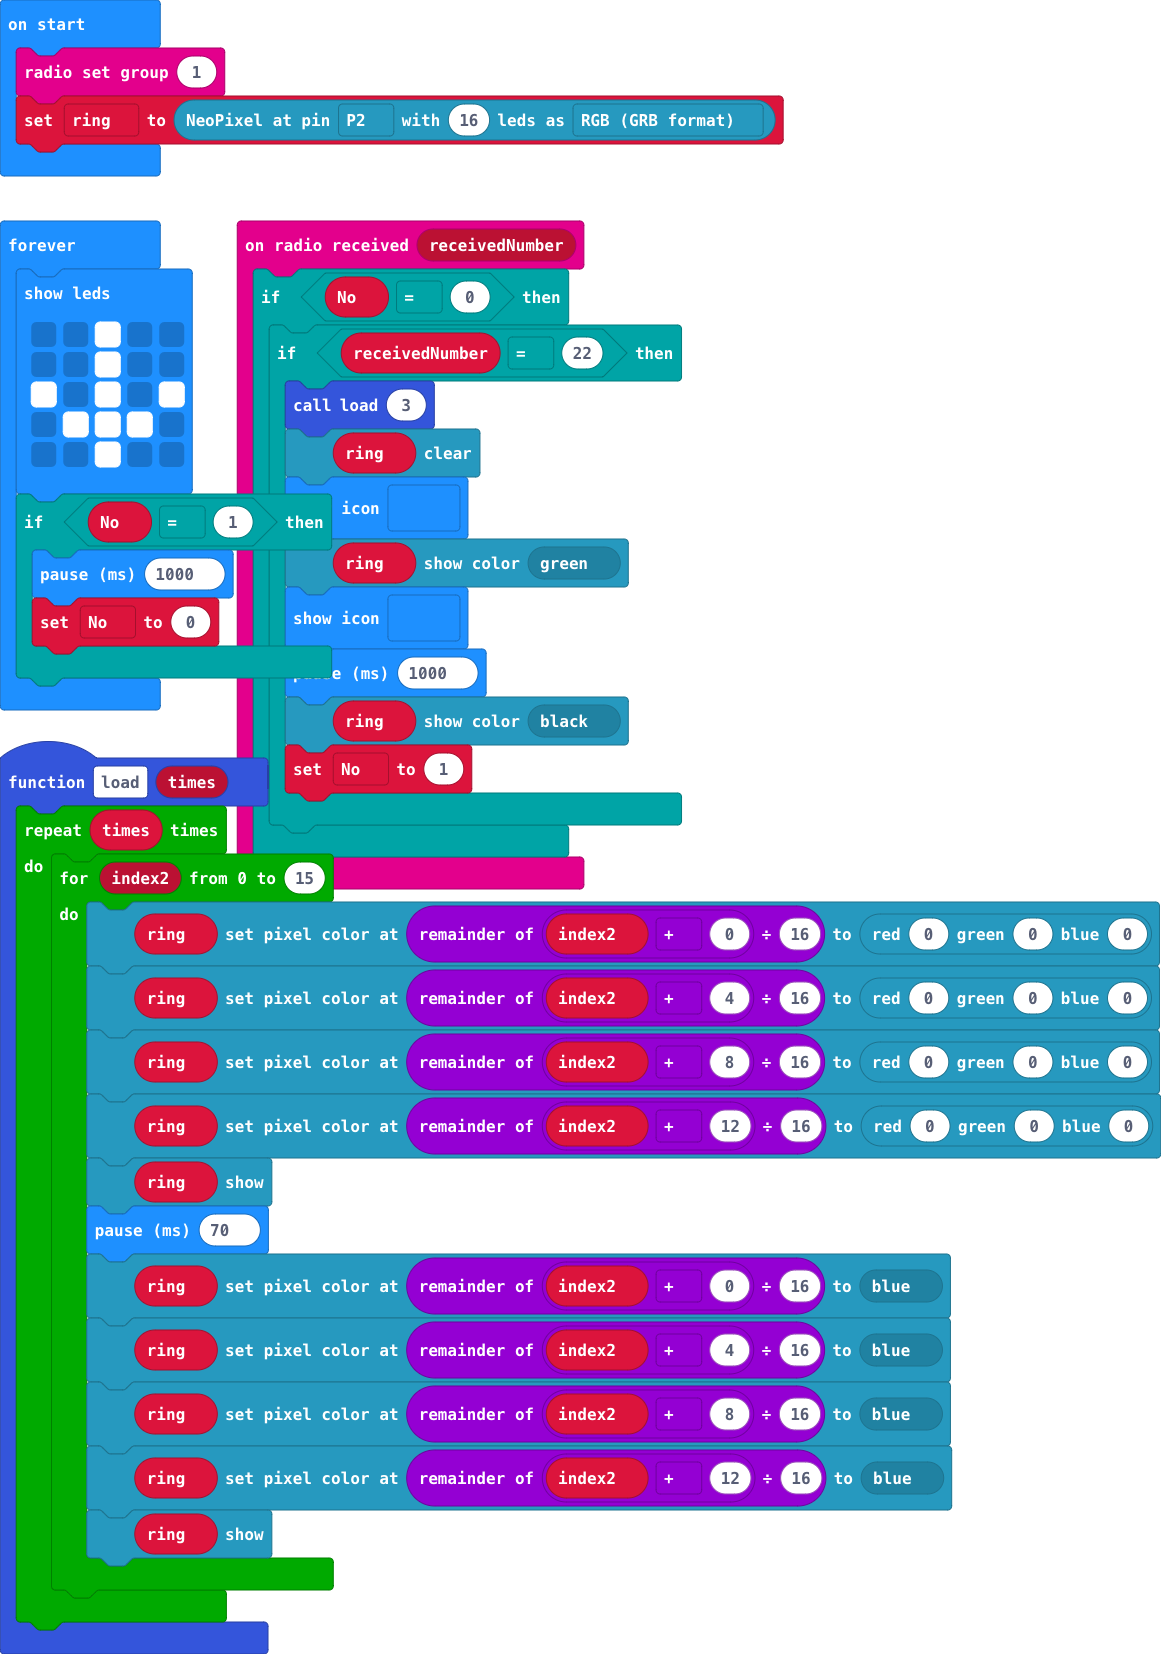
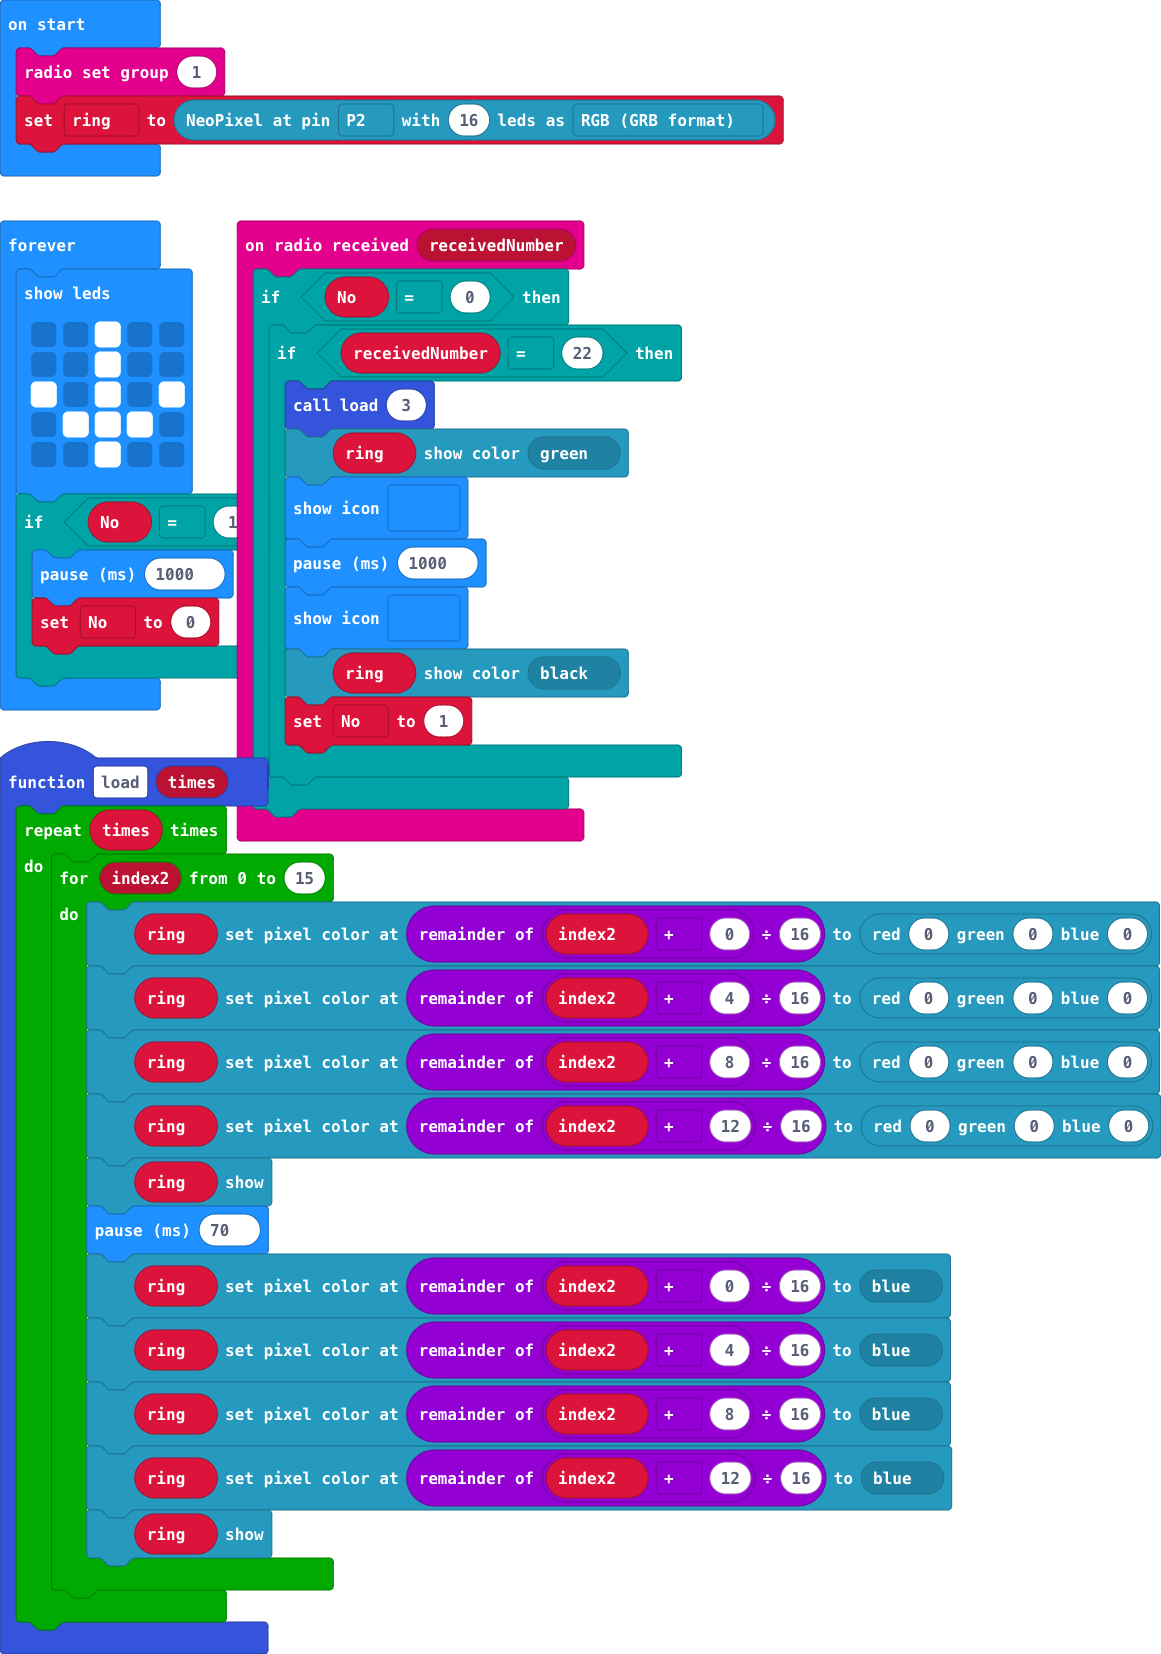
Update main.blocks, main.ts

Changed region(s): [[0.186, 0.2467, 0.5891, 0.555]]

diff --git a/main.ts b/main.ts
@@ -2,11 +2,10 @@ radio.onReceivedNumber(function (receivedNumber) {
     if (No == 0) {
         if (receivedNumber == 22) {
             load(3)
-            ring.clear()
-            basic.showIcon(IconNames.Yes)
             ring.showColor(neopixel.colors(NeoPixelColors.Green))
             basic.showIcon(IconNames.Yes)
             basic.pause(1000)
+            basic.showIcon(IconNames.Yes)
             ring.showColor(neopixel.colors(NeoPixelColors.Black))
             No = 1
         }
